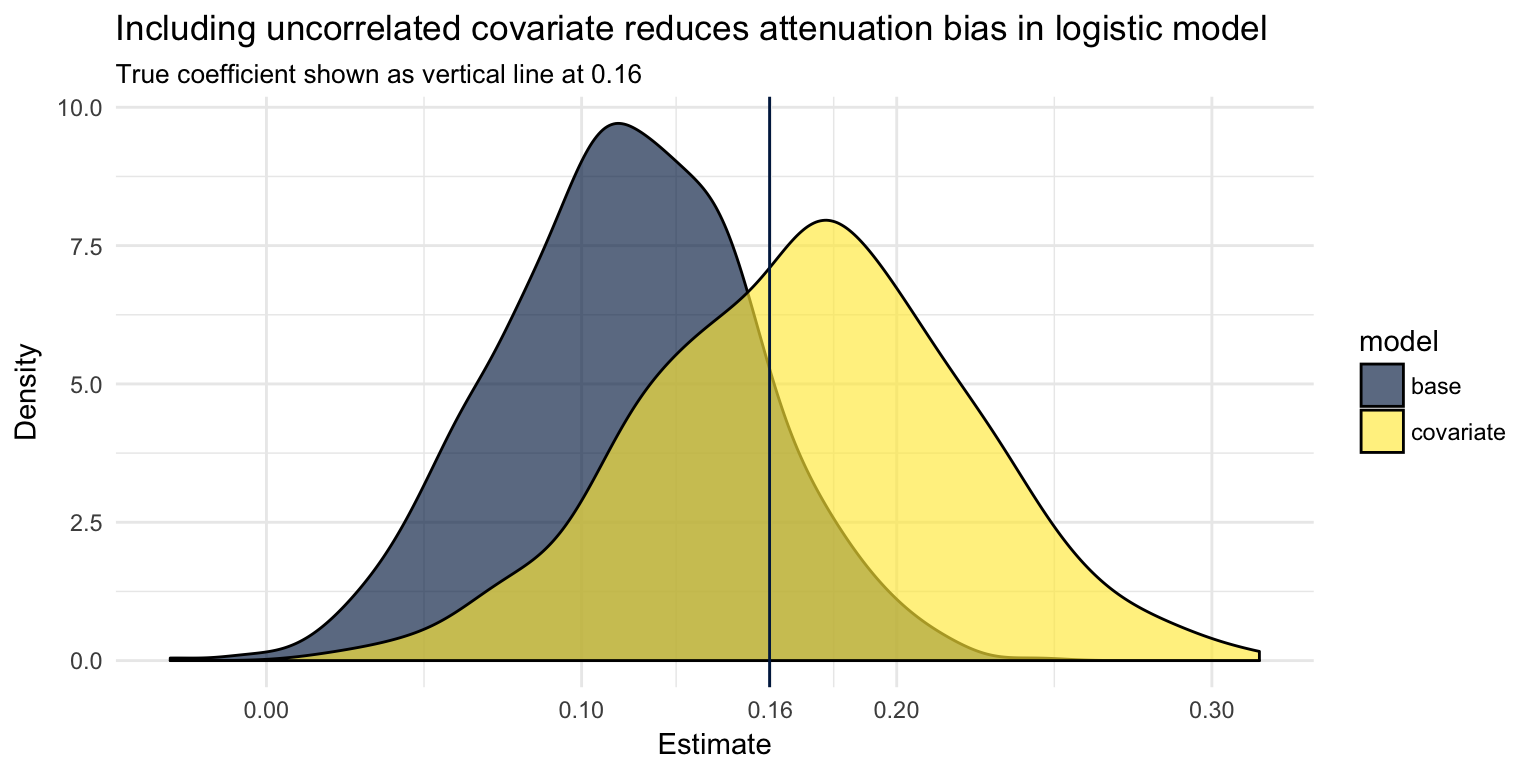
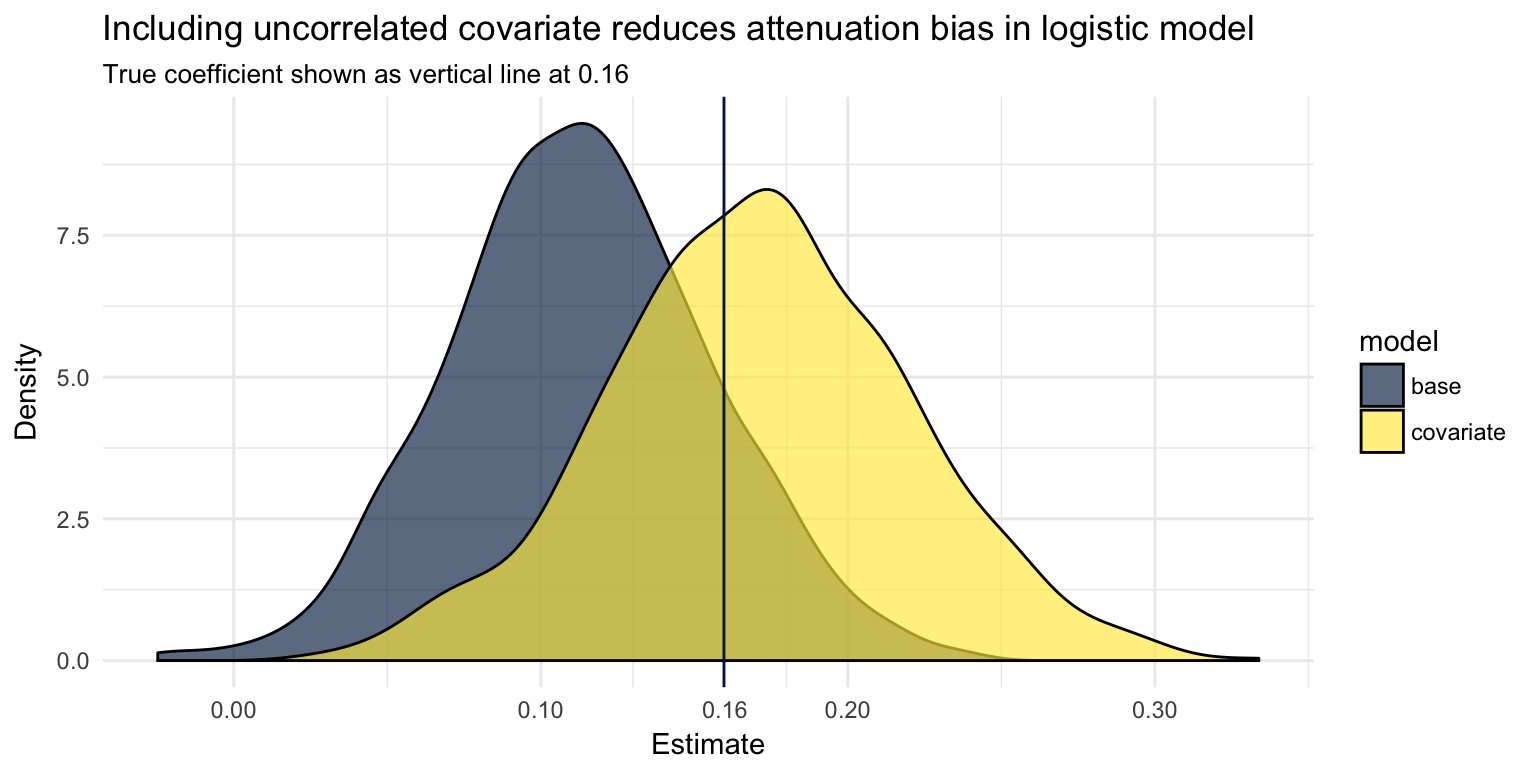
Add marginal vs conditional effects explanations.

diff --git a/content/post/2018-02-19-why-bother-with-covariates-if-treatment-is-randomly-assigned.html b/content/post/2018-02-19-why-bother-with-covariates-if-treatment-is-randomly-assigned.html
@@ -20,6 +20,7 @@ image: "https://jesse.tw/images/circle-arrows.png"
 </blockquote>
 <p>Economists spend their lives trying to get observational data to behave like they randomly assigned treatments. Usually that involves adding covariates until you get an answer you like, or using increasingly complicated methods (OLS, difference-in-difference, fixed effects, IVs, regression discontinuities, dynamic panels, synthetic controls, a million different standard error estimators, and so on). <em>But A/B testing starts with random assignment! The hard work is already done!</em> But I guess data science has slightly different issues, so let’s take a look.</p>
 <p>The first thing economists learn is that you can drop any covariate that is uncorrelated with <strong>either</strong> the treatment variable <strong>or</strong> the outcome variable and still get a <a href="https://en.wikipedia.org/wiki/Consistent_estimator"><em>consistent</em> estimate</a> of the treatment effect. But if you like, you can include a covariate that’s uncorrelated with the treatment but correlated with the outcome to reduce the coefficient’s standard error by reducing the estimate of the standard error of the residuals (the other part of the coefficient’s standard error shouldn’t be affected in large samples because the treatment and covariates are uncorrelated). So the CUPED strategy seems pretty obvious to an economist, but I need the practice so I thought I’d look at it anyway. Does it really work that well? Why?</p>
+<p>[Whoops! The answer really is that it reduces variance in the outcomes, the other stuff I find is really just confusing marginal and conditional effects. At first I thought was the point, the econometrician doesn’t know the true model, so doesn’t know to compare the conditional and marginal effects, but I was wrong. Anyway, wait for another post on that!]</p>
 </div>
 <div id="r-setup-and-data" class="section level2">
 <h2>R setup and data</h2>
@@ -98,16 +99,16 @@ dfs_estimates
 ## # A tibble: 2,000 x 10
 ##    id         N  beta true_coefficient model    term    estimate std.error
 ##    &lt;chr&gt;  &lt;dbl&gt; &lt;dbl&gt;            &lt;dbl&gt; &lt;chr&gt;    &lt;chr&gt;      &lt;dbl&gt;     &lt;dbl&gt;
-##  1 1     10000. 0.100            0.160 base     treatm…   0.0946    0.0400
-##  2 1     10000. 0.100            0.160 covaria… treatm…   0.130     0.0489
-##  3 2     10000. 0.100            0.160 base     treatm…   0.108     0.0400
-##  4 2     10000. 0.100            0.160 covaria… treatm…   0.196     0.0492
-##  5 3     10000. 0.100            0.160 base     treatm…   0.138     0.0401
-##  6 3     10000. 0.100            0.160 covaria… treatm…   0.225     0.0495
-##  7 4     10000. 0.100            0.160 base     treatm…   0.102     0.0400
-##  8 4     10000. 0.100            0.160 covaria… treatm…   0.147     0.0496
-##  9 5     10000. 0.100            0.160 base     treatm…   0.128     0.0401
-## 10 5     10000. 0.100            0.160 covaria… treatm…   0.188     0.0489
+##  1 1     10000. 0.100            0.160 base     treatm…   0.0420    0.0400
+##  2 1     10000. 0.100            0.160 covaria… treatm…   0.105     0.0493
+##  3 2     10000. 0.100            0.160 base     treatm…   0.0663    0.0400
+##  4 2     10000. 0.100            0.160 covaria… treatm…   0.149     0.0496
+##  5 3     10000. 0.100            0.160 base     treatm…   0.115     0.0400
+##  6 3     10000. 0.100            0.160 covaria… treatm…   0.204     0.0495
+##  7 4     10000. 0.100            0.160 base     treatm…   0.178     0.0400
+##  8 4     10000. 0.100            0.160 covaria… treatm…   0.207     0.0491
+##  9 5     10000. 0.100            0.160 base     treatm…   0.159     0.0400
+## 10 5     10000. 0.100            0.160 covaria… treatm…   0.190     0.0493
 ## # ... with 1,990 more rows, and 2 more variables: statistic &lt;dbl&gt;,
 ## #   p.value &lt;dbl&gt;</code></pre>
 <p>Done and done.</p>
